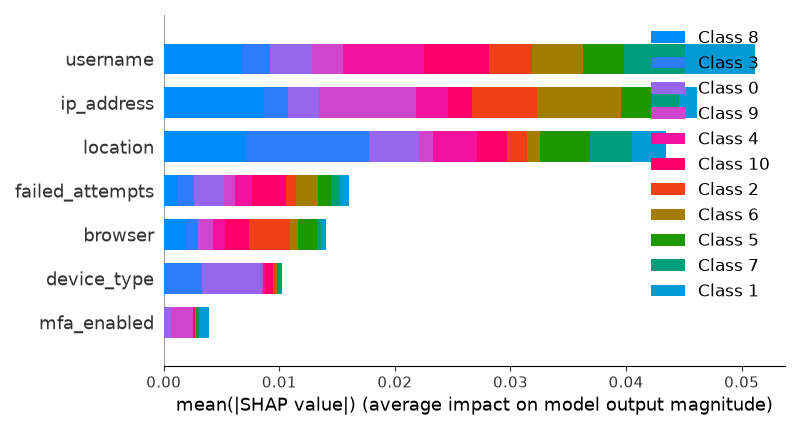
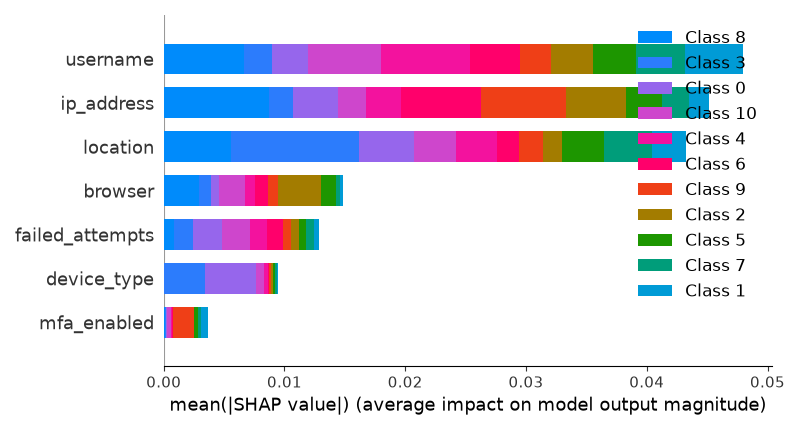
model evaluation updated

diff --git a/src/train_model.py b/src/train_model.py
@@ -1,13 +1,26 @@
 import pandas as pd
 import joblib
 import matplotlib.pyplot as plt
+
+from sklearn.model_selection import train_test_split
+from sklearn.linear_model import LogisticRegression
+from sklearn.tree import DecisionTreeClassifier
+from sklearn.ensemble import RandomForestClassifier
 from xgboost import XGBClassifier
+from sklearn.metrics import (
+    accuracy_score,
+    precision_score,
+    recall_score,
+    f1_score,
+    classification_report,
+    confusion_matrix,
+    roc_auc_score   
+)
 from sklearn.preprocessing import LabelEncoder
 from sklearn.model_selection import RandomizedSearchCV
 import shap
 
-
-df = pd.read_csv("src/auth_authz_failures_dataset_cleaned.csv")
+df = pd.read_csv("src/cleaned_dataset.csv")
 
 encoders = {}
 for col in ["username", "ip_address", "location", "device_type", "browser"]:
@@ -20,9 +33,111 @@ target_le = LabelEncoder()
 df["threat_level"] = target_le.fit_transform(df["threat_level"])
 joblib.dump(target_le, "src/target_encoder.pkl")
 
-X = df.drop("threat_level", axis=1)
-y = df["threat_level"]
+features = [
+    "username",
+    "ip_address",
+    "location",
+    "failed_attempts",
+    "device_type",
+    "browser",
+    "mfa_enabled"
+]
 
+X = df[features]
+y = df["threat_level"]
+#train-test split
+X_train,X_test,y_train,y_test=train_test_split(
+    X,
+    y,
+    random_state=42,
+    test_size=0.2
+)
+
+#Starting model training
+print(".........Logistic Regression.........")
+lr_model=LogisticRegression(max_iter=1000)
+lr_model.fit(X_train,y_train)
+y_pred_lr=lr_model.predict(X_test)
+lr_pred = lr_model.predict(X_test)
+
+lr_acc = accuracy_score(y_test, lr_pred)
+lr_pre = precision_score(y_test, lr_pred, average='weighted')
+lr_rec = recall_score(y_test, lr_pred, average='weighted')
+lr_f1 = f1_score(y_test, lr_pred, average='weighted')
+lr_auc = roc_auc_score(
+    y_test,
+    lr_model.predict_proba(X_test),
+    multi_class='ovr'
+)
+
+
+print(".........Decision Tree.........")
+dt_model=DecisionTreeClassifier(random_state=42)
+dt_model.fit(X_train,y_train)
+y_pred_dt=dt_model.predict(X_test)
+dt_pred = dt_model.predict(X_test)
+
+dt_acc = accuracy_score(y_test, dt_pred)
+dt_pre = precision_score(y_test, dt_pred, average='weighted')
+dt_rec = recall_score(y_test, dt_pred, average='weighted')
+dt_f1 = f1_score(y_test, dt_pred, average='weighted')
+dt_auc = roc_auc_score(
+    y_test,
+    dt_model.predict_proba(X_test),
+    multi_class='ovr'
+)
+
+print(".........Random Forest.........")
+rf_model=RandomForestClassifier(random_state=42)
+rf_model.fit(X_train,y_train)
+y_pred_rf=rf_model.predict(X_test)  
+rf_pred = rf_model.predict(X_test)
+
+rf_acc = accuracy_score(y_test, rf_pred)
+rf_pre = precision_score(y_test, rf_pred, average='weighted')
+rf_rec = recall_score(y_test, rf_pred, average='weighted')
+rf_f1 = f1_score(y_test, rf_pred, average='weighted')
+rf_auc = roc_auc_score(
+    y_test,
+    rf_model.predict_proba(X_test),
+    multi_class='ovr'
+)
+
+
+print(".........XGBoost.........")
+xgb_model=XGBClassifier(use_label_encoder=False, eval_metric='mlogloss', random_state=42)
+xgb_model.fit(X_train,y_train)
+y_pred_xgb=xgb_model.predict(X_test)
+xgb_pred = xgb_model.predict(X_test)
+
+xgb_acc = accuracy_score(y_test, xgb_pred)
+xgb_pre = precision_score(y_test, xgb_pred, average='weighted')
+xgb_rec = recall_score(y_test, xgb_pred, average='weighted')
+xgb_f1 = f1_score(y_test, xgb_pred, average='weighted')
+xgb_auc = roc_auc_score(
+    y_test,
+    xgb_model.predict_proba(X_test),
+    multi_class='ovr'
+)
+
+import pandas as pd
+
+comparison = pd.DataFrame({
+    "Model": [
+        "Logistic Regression",
+        "Decision Tree",
+        "Random Forest",
+        "XGBoost"
+    ],
+    "Accuracy": [lr_acc, dt_acc, rf_acc, xgb_acc],
+    "Precision": [lr_pre, dt_pre, rf_pre, xgb_pre],
+    "Recall": [lr_rec, dt_rec, rf_rec, xgb_rec],
+    "F1-Score": [lr_f1, dt_f1, rf_f1, xgb_f1],
+    "ROC-AUC": [lr_auc, dt_auc, rf_auc, xgb_auc]
+})
+
+print(comparison)
+print(">.............................................................................................")
 print("Starting Model Tuning & Optimization...")
 
 param_grid = {
@@ -32,7 +147,7 @@ param_grid = {
     'subsample': [0.8, 1.0]
 }
 
-base_model = XGBClassifier(use_label_encoder=False, eval_metric='mlogloss', random_state=42)
+base_model = xgb_model
 
 tuned_model = RandomizedSearchCV(
     estimator=base_model,